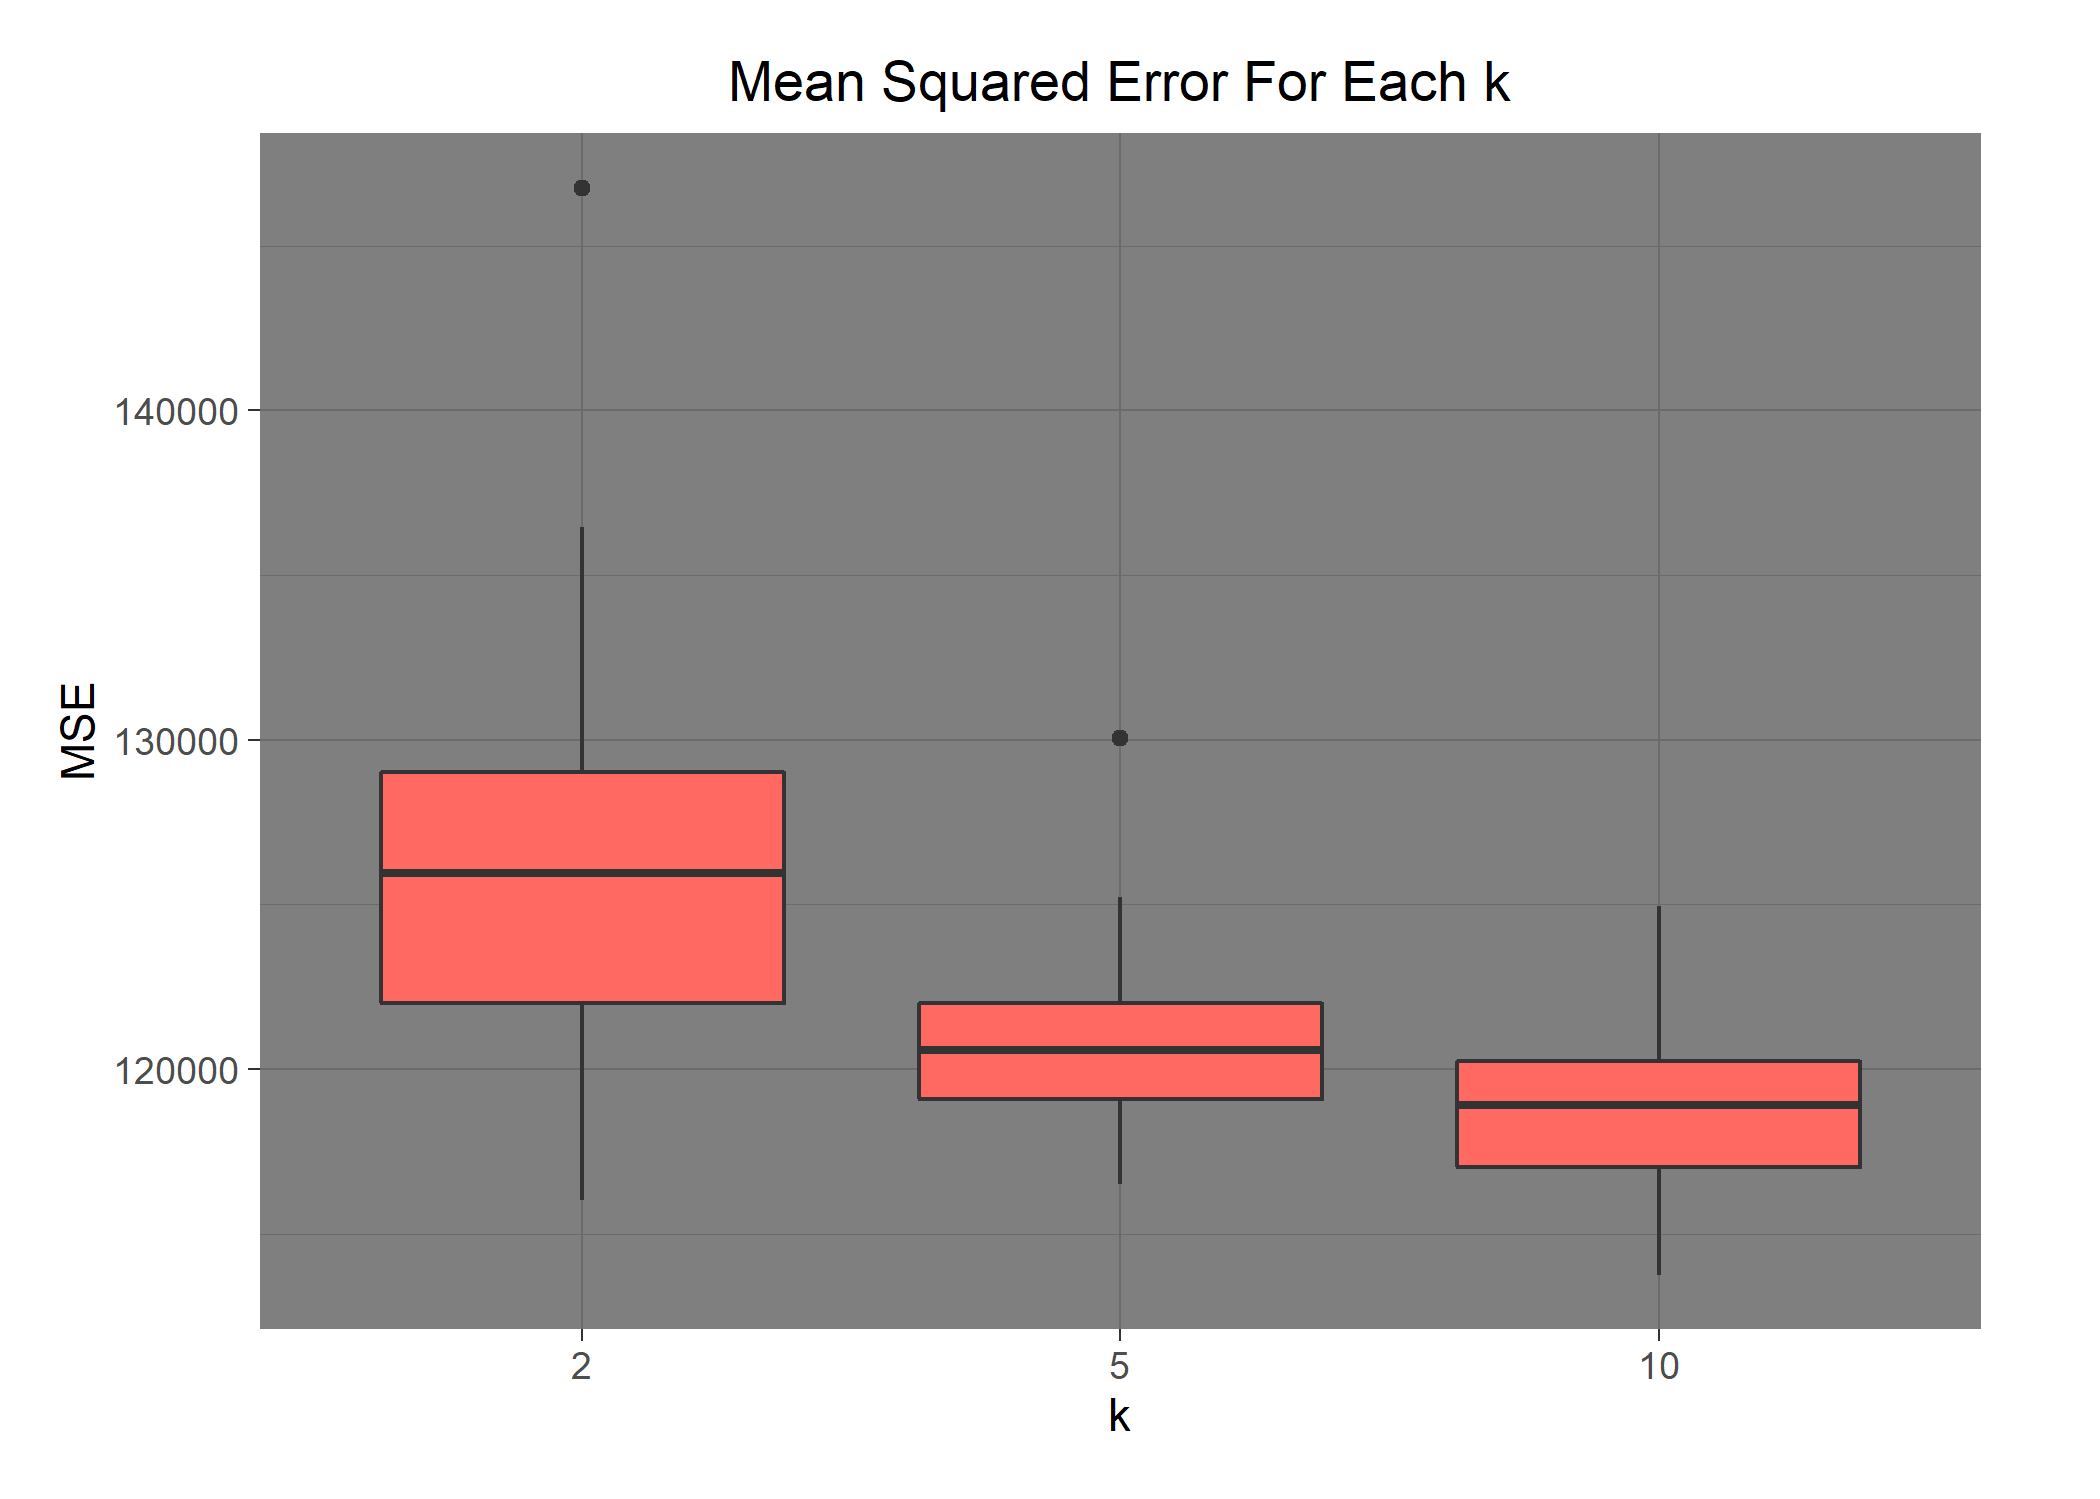
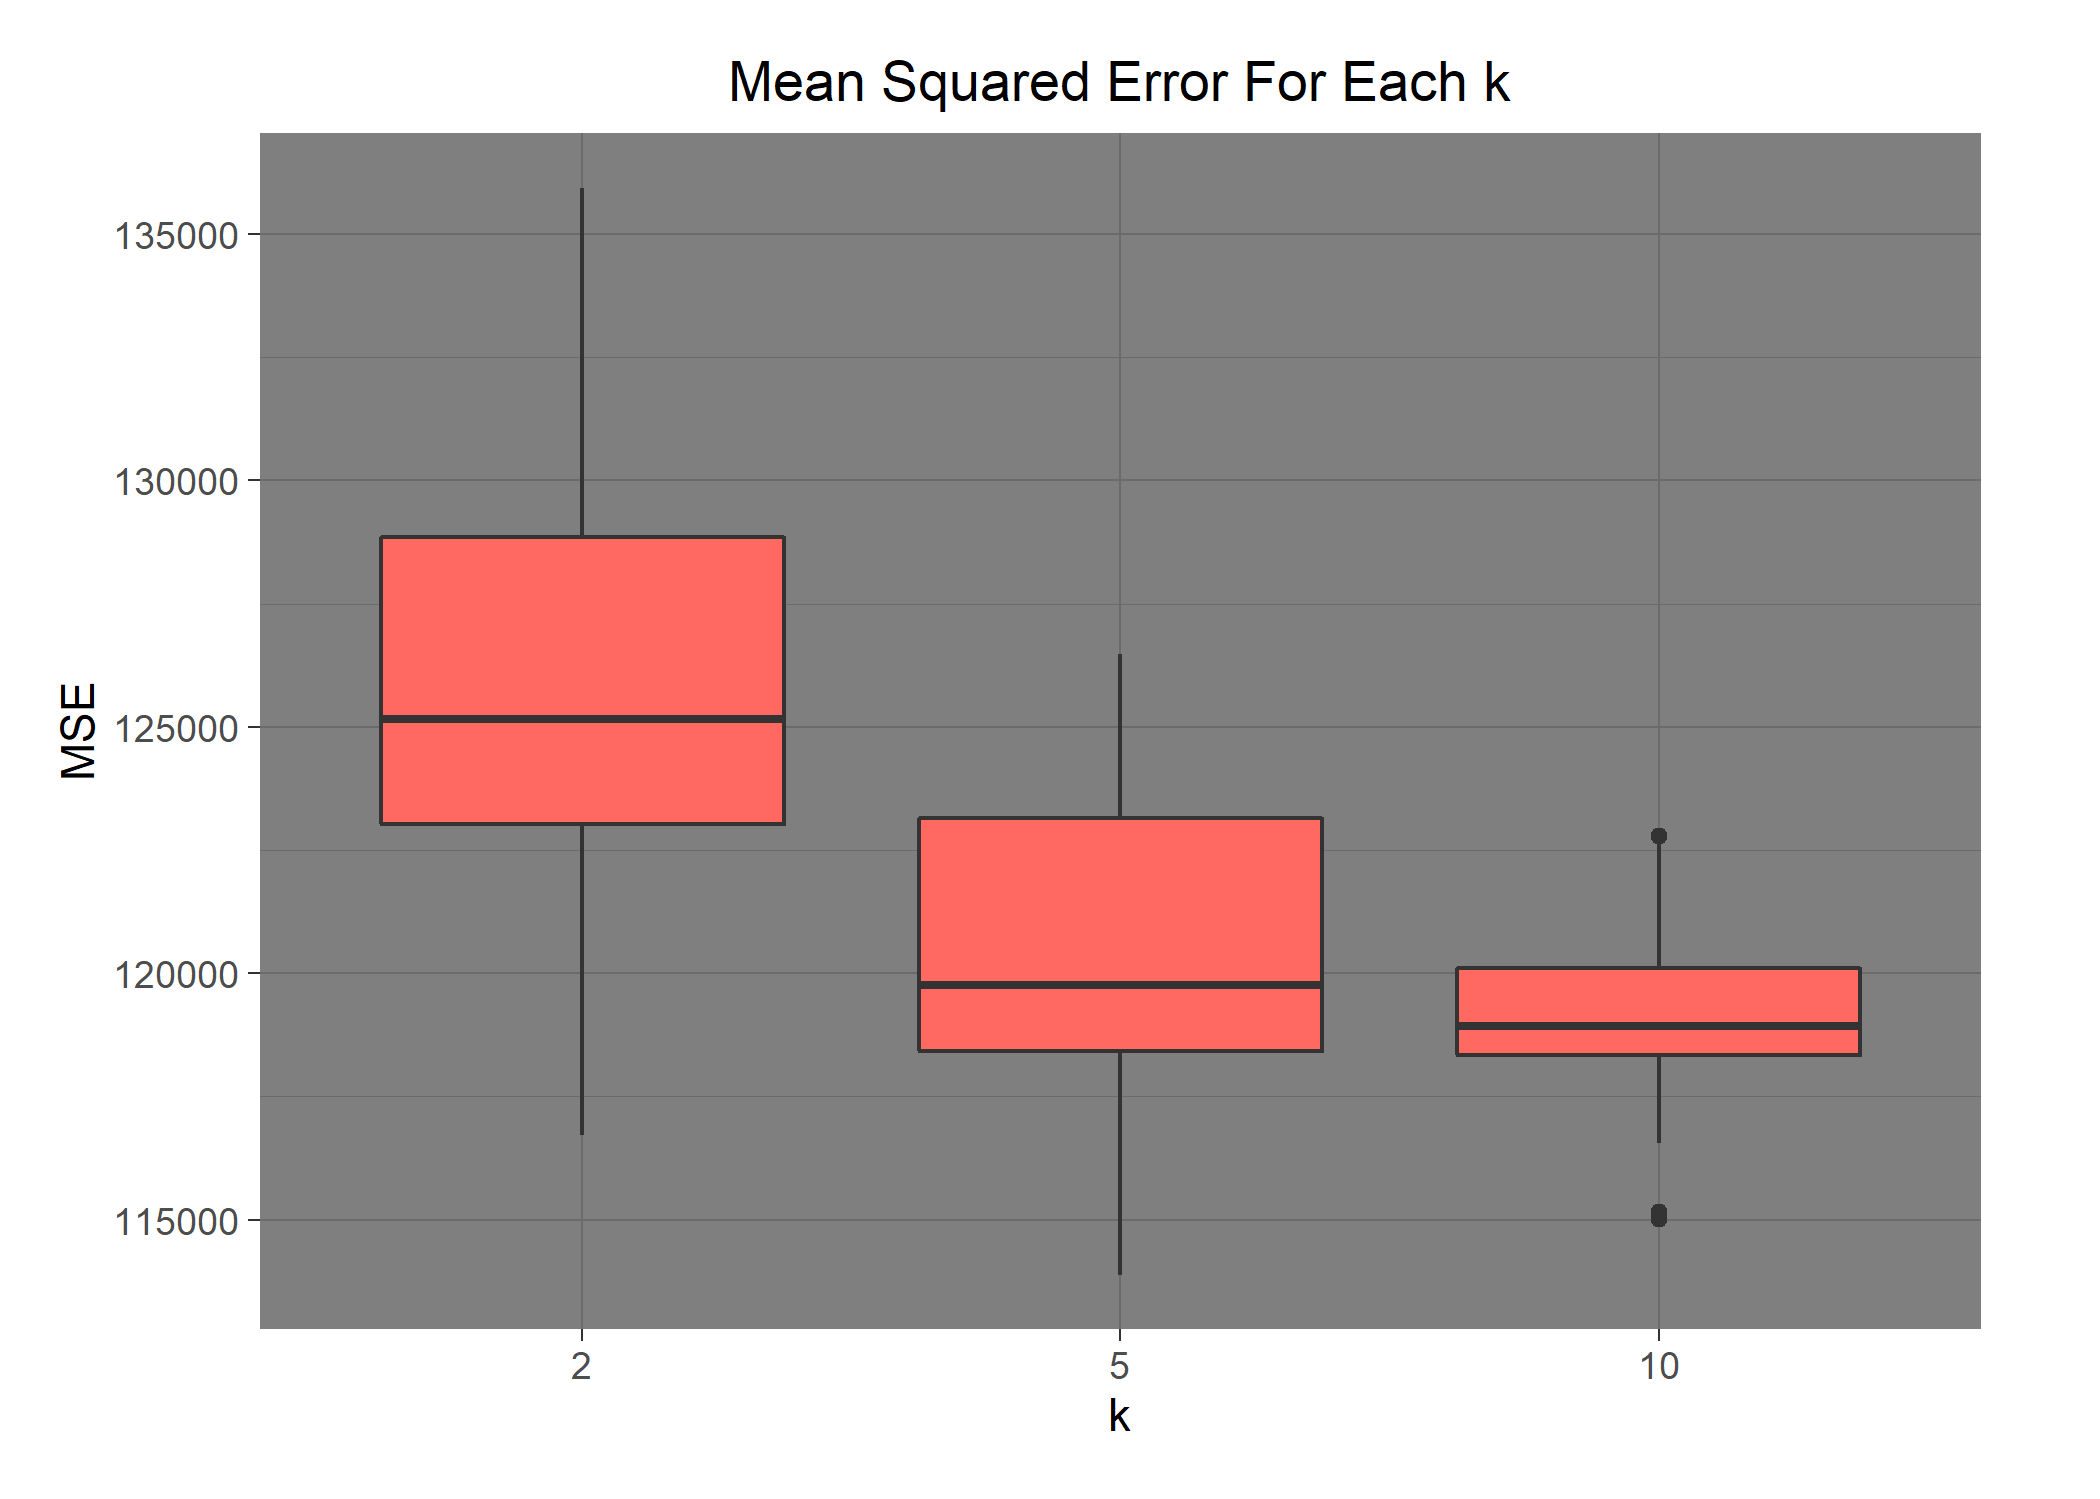
Reverted font families

diff --git a/Analysis/analysis.html b/Analysis/analysis.html
@@ -202,7 +202,7 @@ summary {
 <style type="text/css">
 /* Whole document: */
 body{
-  font-family: Cambria, Georgia, Palatino, serif;
+  font-family: "Palatino Linotype", "Book Antiqua", Palatino, serif;
   font-size: 12pt;
 }
 h1.title {
@@ -268,7 +268,7 @@ rf_plot &lt;- ggplot(data = out, aes(y = mse, x = k)) +
 # Save plot to Figures folder
 ggsave(&quot;../Output/Figures/MSE_boxplot.png&quot;)
 rf_plot</code></pre>
[2 lines of base64/hex data omitted]
 <pre class="r"><code># Group by k and summarize: mean and sd
 summary &lt;- out %&gt;%
   # Change k value strings to numbers so table looks nicer
@@ -302,10 +302,10 @@ SD MSE
 2
 </td>
 <td style="text-align:right;">
-126371.5
+125725.3
 </td>
 <td style="text-align:right;">
-6102.306
+4169.683
 </td>
 </tr>
 <tr>
@@ -313,10 +313,10 @@ SD MSE
 5
 </td>
 <td style="text-align:right;">
-120875.7
+120564.4
 </td>
 <td style="text-align:right;">
-2701.701
+2988.315
 </td>
 </tr>
 <tr>
@@ -324,10 +324,10 @@ SD MSE
 10
 </td>
 <td style="text-align:right;">
-118843.4
+119080.7
 </td>
 <td style="text-align:right;">
-2584.468
+1834.304
 </td>
 </tr>
 </tbody>
